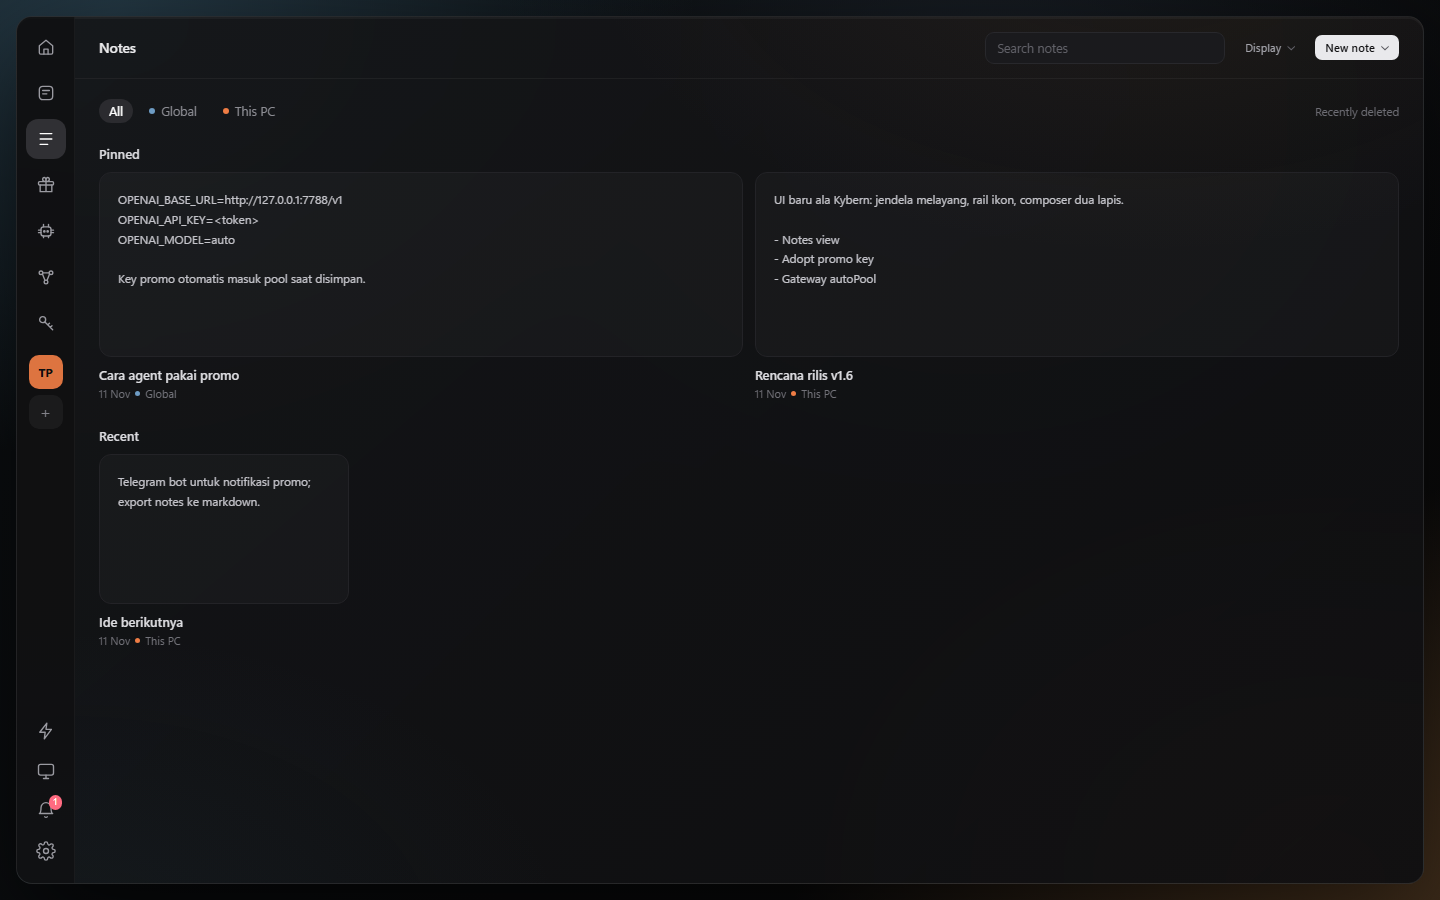
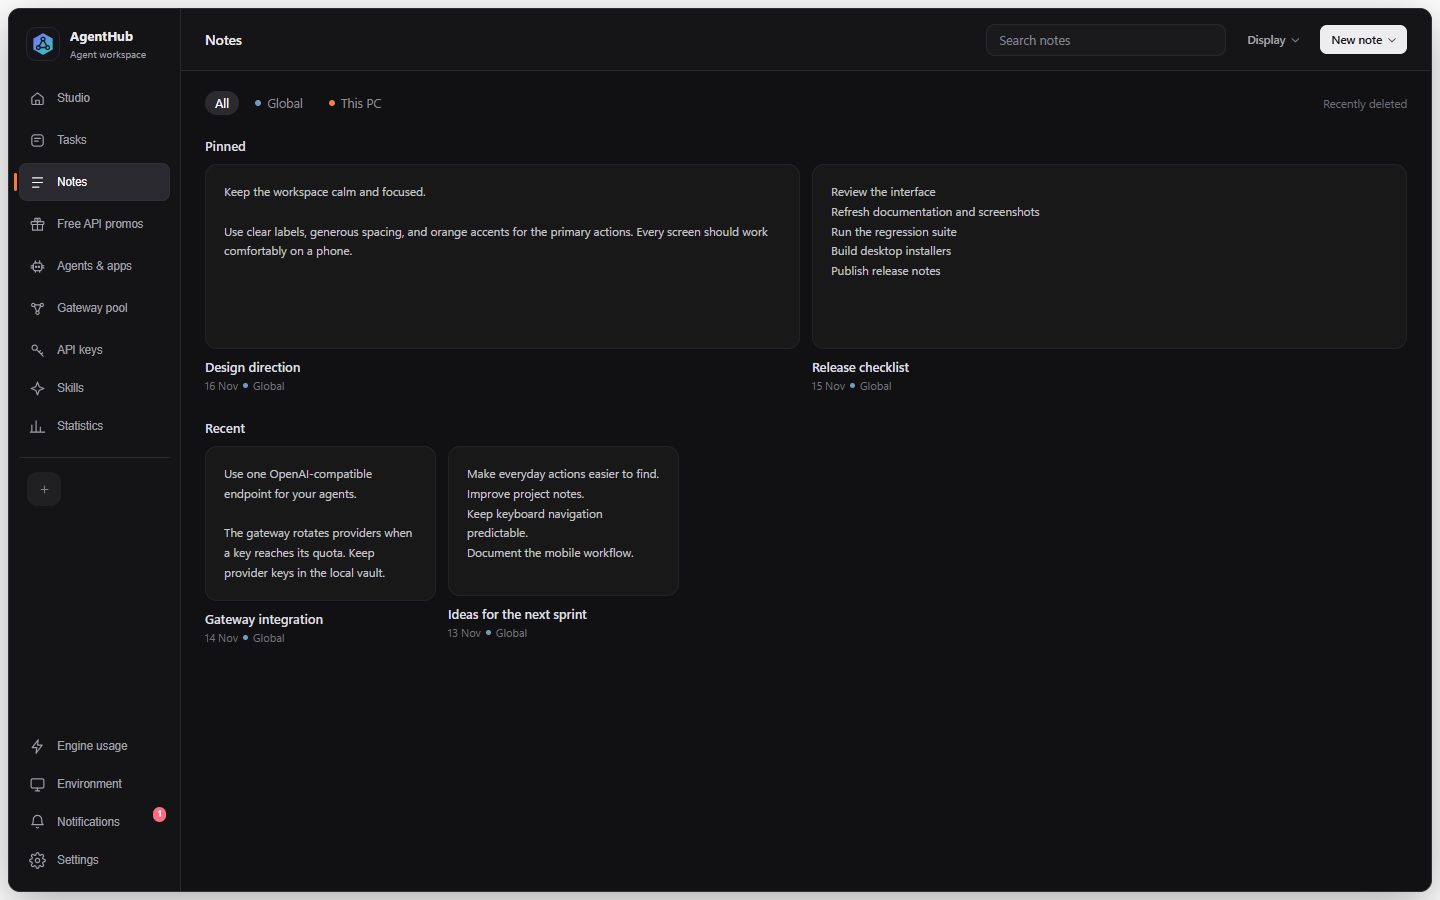
release: refresh README screenshots and fix cross-platform packages

diff --git a/desktop/main.js b/desktop/main.js
@@ -30,8 +30,9 @@ function serverEntry() {
   return fs.existsSync(packed) ? packed : path.join(__dirname, '..', 'server.js');
 }
 function trayIconPath() {
-  const packed = path.join(process.resourcesPath, 'icon.ico');
-  return fs.existsSync(packed) ? packed : path.join(__dirname, 'build', 'icon.ico');
+  const filename = process.platform === 'win32' ? 'icon.ico' : 'icon.png';
+  const packed = path.join(process.resourcesPath, filename);
+  return fs.existsSync(packed) ? packed : path.join(__dirname, 'build', filename);
 }
 function dataDir() {
   return app.isPackaged ? app.getPath('userData') : path.join(__dirname, '..', 'data');

diff --git a/README.id.md b/README.id.md
@@ -5,15 +5,28 @@
 [![Release](https://img.shields.io/github/v/release/khadijahcollege-afk/AgentHub?include_prereleases&label=release&color=blue)](https://github.com/khadijahcollege-afk/AgentHub/releases/latest)
 [![CI](https://github.com/khadijahcollege-afk/AgentHub/actions/workflows/ci.yml/badge.svg)](https://github.com/khadijahcollege-afk/AgentHub/actions/workflows/ci.yml)
 [![License](https://img.shields.io/badge/license-MIT-green.svg)](LICENSE)
-![Platform](https://img.shields.io/badge/platform-Windows%2010%2F11%20x64-blueviolet)
+![Platform](https://img.shields.io/badge/platform-Windows%20%7C%20macOS%20%7C%20Linux%20%7C%20Web-blueviolet)
 
 >  English version: [README.md](README.md)
 
 AgentHub memantau **promo model & API AI gratis** dari berbagai sumber internet, menyambung ke **aplikasi agent** Anda, dan menjaga mereka tetap hidup: saat kuota satu provider gratis habis, traffic **otomatis pindah** ke provider berikutnya — semuanya bisa dipantau dari HP.
 
-| Studio (chat) | Papan tugas | Catatan | Pelacak promo |
-|---|---|---|---|
-| ![](assets/readme/studio.png) | ![](assets/readme/tasks.png) | ![](assets/readme/notes.png) | ![](assets/readme/promo.png) |
+![AgentHub Studio — tampilan desktop terbaru](assets/readme/studio.png)
+
+| Papan tugas | Statistik pemakaian |
+|---|---|
+| ![Tugas dengan lima tahap kerja](assets/readme/tasks.png) | ![Heatmap aktivitas, grafik, dan rincian fitur](assets/readme/stats.png) |
+| Catatan proyek | Pelacak promo |
+| ![Catatan yang disematkan dan catatan terbaru](assets/readme/notes.png) | ![Katalog model gratis](assets/readme/promo.png) |
+
+<details>
+<summary>Tampilan HP</summary>
+
+<img src="assets/readme/mobile.png" width="390" alt="Statistik AgentHub di HP">
+
+</details>
+
+Screenshot menampilkan v1.6.13 dengan data contoh. Angka statistik hanya ilustrasi tampilan; statistik Anda dihitung dari aktivitas Anda sendiri.
 
 ## Fitur
 
@@ -32,12 +45,13 @@ AgentHub memantau **promo model & API AI gratis** dari berbagai sumber internet,
 - **⌘ Composer serba bisa** — palet perintah `Ctrl+K`, autocomplete `@` untuk file di folder kerja, slash command sungguhan (`/new`, `/export`, `/engine`, `/model`, `/prompt`, `/save`, `/tasks`, …), **pustaka prompt** (simpan & pakai ulang, pin favorit), dan **dikte suara** (Web Speech API, id-ID) bila browser mendukung.
 - <img src="assets/icons/spark.svg" width="14" align="absmiddle"> **Adopsi model satu-tap** — katalog model memuat anggota pool + model gratis ter-cache; kalau key provider sudah tersimpan, **Pakai langsung** mengaktifkan model dan memindah engine ke Gateway sekali tap — tanpa cari key lagi.
 - <img src="assets/icons/refresh.svg" width="14" align="absmiddle"> **Pemakaian & review perubahan** — hitungan token per pesan, popover rekap pemakaian, dan laci *Perubahan* yang menampilkan status/diff git hasil run (beserta pemulihan per file).
-- <img src="assets/icons/shield.svg" width="14" align="absmiddle"> **Lokal dulu** — semua berjalan di komputer Anda. Tanpa cloud, tanpa telemetri. API key tidak keluar dari disk.
+- <img src="assets/icons/shield.svg" width="14" align="absmiddle"> **Lokal dulu** — server dan data berada di komputer Anda. Tanpa telemetri AgentHub. Permintaan ke provider mengirim API key dan prompt ke provider pilihan Anda.
+- <img src="assets/icons/refresh.svg" width="14" align="absmiddle"> **Statistik & bahasa** — heatmap aktivitas, grafik 7/30/90 hari, rincian fitur dan engine, serta pengaturan bahasa antarmuka Indonesia/Inggris yang terpisah dari bahasa balasan agent.
 - <img src="assets/icons/snow.svg" width="14" align="absmiddle"> **Server ringan** — Node.js murni, **nol dependency npm**; shell desktop-nya Electron tipis (jendela native + tray, tanpa browser).
 
 ## Install
 
-AgentHub jalan di semua perangkat Anda — satu server lokal, lima cara pasang:
+AgentHub berjalan di desktop dan HP melalui satu server lokal:
 
 | Platform | Installer | Cara |
 |---|---|---|
@@ -47,9 +61,9 @@ AgentHub jalan di semua perangkat Anda — satu server lokal, lima cara pasang:
 | **Linux** | `AgentHub-linux.AppImage` / `.deb` | [Releases](https://github.com/khadijahcollege-afk/AgentHub/releases/latest) — dibangun CI. `chmod +x` AppImage |
 | **Android** | Web / PWA | Pindai QR dashboard → buka di Chrome. Untuk dukungan PWA penuh, gunakan HTTPS → **Instal aplikasi** / **Tambahkan ke layar utama** |
 | **iOS / iPhone** | Web / PWA | Pindai QR dashboard → buka di Safari → **Bagikan** → **Tambahkan ke Layar Utama**. Gunakan HTTPS untuk dukungan PWA penuh |
+| **OS apa pun (web)** | tidak perlu | `node server.js` (Node 18+) — jalan di browser mana pun, UI responsif |
 
 Dashboard web disajikan oleh server AgentHub Anda yang sedang berjalan; GitHub Pages menampilkan situs unduhan. Komputer server harus tetap menyala. Akses browser lewat WiFi lokal bisa memakai HTTP; dukungan PWA penuh memerlukan HTTPS (tersedia melalui tunnel Cloudflare opsional). Belum ada paket APK atau App Store terpisah. Cache offline menyimpan antarmuka; operasi agent memerlukan server.
-| **OS apa pun (web)** | tidak perlu | `node server.js` (Node 18+) — jalan di browser mana pun, UI responsif |
 
 Installer macOS/Linux dibangun otomatis oleh [.github/workflows/release.yml](.github/workflows/release.yml) saat tag `v*` dipush — tiga runner membangun target native masing-masing dan satu job memuat semuanya ke GitHub Release yang sama. Build macOS belum ditandatangani (tanpa sertifikat Apple); aplikasinya identik di semua platform karena server dan UI-nya sama. Untuk akses lewat data seluler, nyalakan tunnel opsional di Pengaturan → *Telepon*.
 
@@ -91,7 +105,7 @@ state yang sengaja dibiarkan lokal — ada di [`STATE-MACHINES.md`](STATE-MACHIN
 ```bash
 npm run machines   # regenerasi public/machines.js
 npm run check      # gagal bila file hasil generate drift, lalu jalankan tes
-npm test           # 130 tes: mesin, kontrak HTTP, run + stop, pemulihan, workspace, pencarian, riwayat, promo pass, lampiran, prompt, PWA, jadwal, cadangan, orchestrator, konteks, tema, dropdown, pulse, update
+npm test           # tes regresi: API, desktop, statistik, bahasa, harness, workspace, dan lainnya
 ```
 
 Agent yang mengemudikan aplikasi tidak perlu menebak; kontraknya disajikan lewat HTTP:
@@ -157,7 +171,7 @@ lewat CDP tidak bisa menjawabnya. Dialog aktif terlihat di
 
 ## Privacy & keamanan
 
-- Server berjalan di `0.0.0.0:7788` agar HP bisa akses; semua `/api/*` wajib token akses (tampil di Pengaturan, bisa di-regenerate). Kerangka UI sendiri terbuka tapi tanpa rahasia — gerbang token muncul sebelum data apa pun dimuat.
+- Server berjalan di `0.0.0.0:7788` agar HP bisa akses. Browser localhost mendapat sesi otomatis lewat `POST /api/local-session`, dengan pemeriksaan loopback, Host, header proxy, dan origin. Permintaan API lainnya wajib token; tautan QR HP menyertakannya untuk masuk otomatis.
 - API key tersimpan di `data/keys.json` (mode sumber) atau `%APPDATA%\AgentHub` (terinstall) — lokal saja, tidak dikirim ke mana pun kecuali provider pilihan Anda. Key selalu di-mask di UI dan nilai ber-mask ditolak saat dikirim.
 - Tunnel opsional menerbitkan AgentHub ke URL publik `trycloudflare.com`. UI menyatakannya apa adanya: **siapa pun yang punya link + token bisa mengendalikan agent Anda** — tunnel bawaan mati dan sekali klik untuk berhenti.
 - `data/` di-git-ignored, jadi `git push` tidak mungkin membocorkan key, token, atau riwayat percakapan Anda.

diff --git a/docs/releases/v1.6.13.md b/docs/releases/v1.6.13.md
@@ -1,0 +1,27 @@
+## What's new
+
+- Refreshed desktop workspace with a dark/orange theme, SVG icons, responsive navigation, clearer Settings and About pages, and an improved Orchestra view.
+- Persistent usage statistics: activity cards, yearly heatmap, 7/30/90-day charts, and breakdowns by feature and engine.
+- Separate Indonesian/English interface language and agent reply-language preferences.
+- Automatic sign-in when opening the dashboard directly on localhost. Phone access uses the token included in the pairing QR link.
+- Clear Android, iPhone, and web setup instructions. The dashboard runs on your AgentHub server; full PWA support requires HTTPS.
+- Fixed Windows CLI argument handling so spaces, quotes, multiline prompts, and long prompts reach installed agent harnesses correctly.
+- Fresh desktop and mobile screenshots in both READMEs, plus corrected cross-platform installer packaging.
+
+## Downloads
+
+| Platform | Package |
+|---|---|
+| Windows 10/11 x64 | `AgentHub-Setup.exe` — desktop installer with tray integration |
+| Windows portable | `AgentHub-Portable.zip` — extract and run `Start AgentHub.bat` |
+| macOS | `AgentHub-macOS.dmg` or `AgentHub-macOS-portable.zip` |
+| Linux | `AgentHub-linux.AppImage` or `AgentHub-linux.deb` |
+| Android / iPhone | Open your running server through the pairing QR; see the [mobile guide](https://khadijahcollege-afk.github.io/AgentHub/#web-mobile) |
+
+The macOS packages are unsigned; use the system's Open option on first launch. Keep the host computer running for phone access. `SHA256SUMS.txt` contains checksums for all six downloads.
+
+## Bahasa Indonesia
+
+Rilis ini membawa tampilan baru, statistik aktivitas lengkap, pilihan bahasa antarmuka dan balasan agent yang terpisah, serta masuk otomatis tanpa mengetik token di localhost. Penanganan prompt CLI Windows diperbaiki agar spasi, kutipan, baris baru, dan prompt panjang tetap utuh. Screenshot README serta panduan Android/iPhone/web juga diperbarui.
+
+Validated with the complete 204-test regression suite. See [CHANGELOG.md](https://github.com/khadijahcollege-afk/AgentHub/blob/v1.6.13/CHANGELOG.md) for details.

diff --git a/CHANGELOG.md b/CHANGELOG.md
@@ -1,6 +1,9 @@
 # Changelog
 
 ## 1.6.13 — 2026-11-16
+- Screenshot README diperbarui dari UI terbaru, termasuk statistik dan HP.
+  Jalur artefak rilis Windows/macOS/Linux diperbaiki, paket portable menyertakan
+  metadata modul Node.js, dan ikon tray PNG tersedia di macOS/Linux.
 - Dashboard di localhost masuk otomatis tanpa mengetik token. Sesi otomatis
   dibatasi ke koneksi loopback langsung; akses jaringan/tunnel memakai token QR.
 - Panduan Android/iPhone/web kini tersedia langsung di situs dan tab halaman
